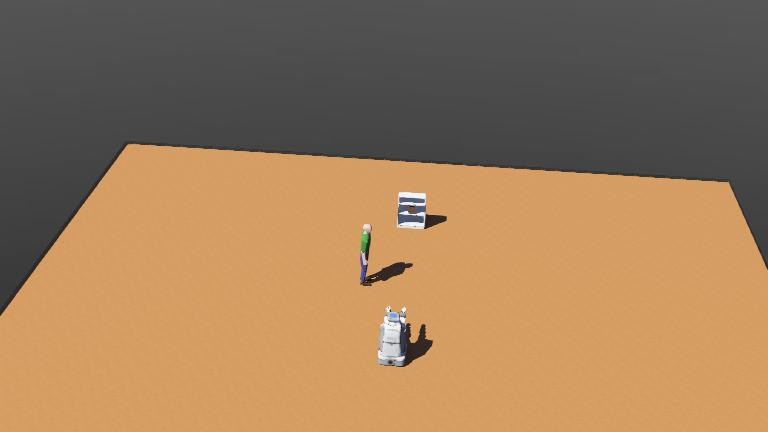
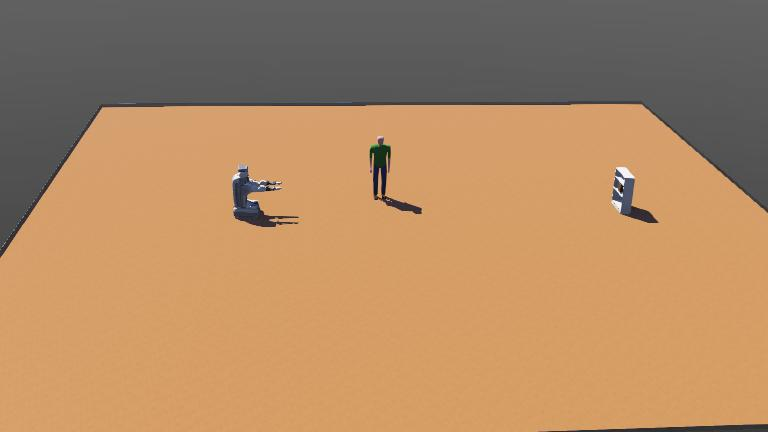
slow down works

Changed region(s): [[0.0, 0.2407, 1.0, 0.7222], [0.6875, 0.963, 1.0, 1.0], [0.4688, 0.6921, 0.5625, 0.8727]]

diff --git a/final/controllers/pr2_autonomous_ethics/pr2_autonomous_ethics.py b/final/controllers/pr2_autonomous_ethics/pr2_autonomous_ethics.py
@@ -5,52 +5,49 @@ import time
 
 # --- Constants ---
 TIME_STEP = 16
-MAX_WHEEL_SPEED = 3.0
-REDUCED_SPEED = 1.0
+MAX_WHEEL_SPEED = 10.0
+REDUCED_SPEED = 3.0
 STOP_SPEED = 0.0
-PROXIMITY_THRESHOLD = 2.0  # meters
-
-# --- Pathing Constants ---
-TARGET_X = 5.8  # Shelf distance in ethics_test.wbt
+PROXIMITY_THRESHOLD = 2.5  # Increase detection range for faster robot
+SHELF_STOP_THRESHOLD = 1.0  # Stop 1m before the shelf
+REASONING_INTERVAL = 30    
 
 # --- Modular Ontology Logic ---
 class EthicsEngine:
     def __init__(self, owl_path):
+        print(f"DEBUG: Loading ontology {owl_path}...")
         self.onto = get_ontology(owl_path).load()
         with self.onto:
-            # Pre-sync to verify the file
             sync_reasoner_pellet(infer_property_values=True, debug=0)
         print(f"Ontology '{owl_path}' loaded and ready.")
+        self.last_behavior = (MAX_WHEEL_SPEED, "NormalSpeed")
 
-    def get_behavior(self, sensor_data):
-        """
-        This method is designed to be easily swappable when a more 
-        complex ontology file is provided.
-        """
+    def get_behavior(self, sensor_data, step_count):
+        if step_count % REASONING_INTERVAL != 0:
+            return self.last_behavior
+
         dist = sensor_data['lidar_min']
-        
-        with self.onto:
-            # 1. Map Sensors to Ontology Individuals
-            # (Using a generic Robot/Proximity mapping for now)
-            r = self.onto.Robot("pr2_robot")
-            if dist < PROXIMITY_THRESHOLD:
-                p = self.onto.Near("human_proximity")
-            else:
-                p = self.onto.Far("human_proximity")
+        try:
+            with self.onto:
+                r = self.onto.Robot("pr2_robot")
+                if dist < PROXIMITY_THRESHOLD:
+                    p = self.onto.Near("human_proximity")
+                else:
+                    p = self.onto.Far("human_proximity")
+                r.has_proximity = [p]
+                
+                sync_reasoner_pellet(infer_property_values=True, debug=0)
+                
+                if self.onto.EmergencyStop in r.is_a:
+                    self.last_behavior = (STOP_SPEED, "EmergencyStop")
+                elif self.onto.ReducedSpeed in r.is_a:
+                    self.last_behavior = (REDUCED_SPEED, "ReducedSpeed")
+                else:
+                    self.last_behavior = (MAX_WHEEL_SPEED, "NormalSpeed")
+        except Exception as e:
+            print(f"Ontology Error: {e}")
             
-            r.has_proximity = [p]
-            
-            # 2. Run Reasoning
-            sync_reasoner_pellet(infer_property_values=True, debug=0)
-            
-            # 3. Extract Inferred Behavior
-            # If the new ontology uses different classes, only this section needs changing
-            if self.onto.EmergencyStop in r.is_a:
-                return STOP_SPEED, "EmergencyStop"
-            elif self.onto.ReducedSpeed in r.is_a:
-                return REDUCED_SPEED, "ReducedSpeed"
-            else:
-                return MAX_WHEEL_SPEED, "NormalSpeed"
+        return self.last_behavior
 
 # --- Robot Setup ---
 robot = Robot()
@@ -66,54 +63,68 @@ def initialize_devices():
     ]
     for name in wheel_names:
         m = robot.getDevice(name)
-        m.setPosition(float("inf"))
-        m.setVelocity(0.0)
-        wheel_motors.append(m)
+        if m:
+            m.setPosition(float("inf"))
+            m.setVelocity(0.0)
+            wheel_motors.append(m)
 
     rotation_names = ["fl_caster_rotation_joint", "fr_caster_rotation_joint", "bl_caster_rotation_joint", "br_caster_rotation_joint"]
     for name in rotation_names:
-        rotation_motors.append(robot.getDevice(name))
+        m = robot.getDevice(name)
+        if m:
+            m.setPosition(0.0)
+            rotation_motors.append(m)
 
     lidar = robot.getDevice("base_laser")
-    lidar.enable(TIME_STEP)
+    if lidar:
+        lidar.enable(TIME_STEP)
+    
     return lidar
 
 lidar = initialize_devices()
-
-# Initialize the Ethics Engine
-# Note: Swap 'warehouse_ethics.owl' for the new file when available
 ethics = EthicsEngine("warehouse_ethics.owl")
 
 # --- Main Loop ---
-state = "DRIVING_FORWARD"
-start_time = robot.getTime()
+state = "NAVIGATE_TO_SHELF"
+step_count = 0
+
+print("DEBUG: Starting main loop...")
 
 while robot.step(TIME_STEP) != -1:
+    step_count += 1
+    
     # 1. Sensing
-    ranges = lidar.getRangeImage()
-    min_dist = min(ranges) if ranges else 10.0
+    ranges = lidar.getRangeImage() if lidar else []
+    valid_ranges = [r for r in ranges if not math.isinf(r) and not math.isnan(r)]
+    min_dist = min(valid_ranges) if valid_ranges else 10.0
     sensor_data = {'lidar_min': min_dist}
     
     # 2. Ethical Reasoning
-    target_speed, behavior_name = ethics.get_behavior(sensor_data)
+    onto_speed, behavior_name = ethics.get_behavior(sensor_data, step_count)
     
-    # 3. Autonomous State Machine (Simple Straight Path)
-    current_time = robot.getTime() - start_time
+    # 3. Navigation State Machine
+    target_speed = 0.0
     
-    # Logic: Drive for 10 seconds (approx distance to shelf) then stop
-    if state == "DRIVING_FORWARD":
-        if current_time > 10.0:
-            state = "PICKING_UP"
-            print("Status: Reached shelf. Starting pick-up sequence.")
-    
-    if state == "PICKING_UP":
+    if state == "NAVIGATE_TO_SHELF":
+        # Check if we should stop at the shelf (Threshold-based)
+        if min_dist <= SHELF_STOP_THRESHOLD:
+            state = "AT_SHELF"
+            target_speed = STOP_SPEED
+            print(f"Status: Reached shelf (Dist: {min_dist:.2f}m). Stopping.")
+        else:
+            # Use the speed determined by the ontology
+            target_speed = onto_speed
+
+    elif state == "AT_SHELF":
         target_speed = STOP_SPEED
-        # (Gripper code will go here next)
-    
+
     # 4. Actuation
     for m in wheel_motors:
         m.setVelocity(target_speed)
 
-    # Logging as per requirement
-    if behavior_name != "NormalSpeed":
-        print(f"[ETHICS] Inferred: {behavior_name} (Dist: {min_dist:.2f}m) -> Speed: {target_speed}")
+    # Logging
+    if step_count % 100 == 0:
+        print(f"Heartbeat: State={state}, MinDist={min_dist:.2f}m, Behavior={behavior_name}, Speed={target_speed:.2f}")
+
+    if behavior_name != "NormalSpeed" and step_count % REASONING_INTERVAL == 0:
+        print(f"[ETHICS] Inferred: {behavior_name} (Dist: {min_dist:.2f}m) -> Speed: {target_speed:.2f}")

diff --git a/dev_log.md b/dev_log.md
@@ -1,53 +1,7 @@
 # Development Log - Ontology-Driven Ethical Warehouse Robot
 
-## [2026-03-03] - Initial Setup
-- **Task:** Finalized `goal.md` and established the project roadmap.
-- **Goal:** Transform the manual PR2 controller into an autonomous, ontology-driven system.
-- **Log Created:** Initialized `dev_log.md` to track all changes, issues, and solutions.
-
-### Current Status:
-- Controller: `pr2_py_controller.py` is currently manual (keyboard-controlled) with basic color-based human detection.
-- Ontology: `fullaxiom.owl` is present but only loaded as an XML tree, not used for reasoning.
-- Environment: Webots 2023b (assumed) with PR2 robot.
-
-## [2026-03-03] - World Creation & Ontology Clarification
-- **Action:** Created `FN Robotics/worlds/ethics_test.wbt` with a straight-line setup (Robot -> Human -> Shelf).
-- **Note:** `PR2` is set to use the `pr2_autonomous_ethics` controller (which we will move to the correct folder).
-- **Clarification:** The existing `fullaxiom.owl` is a standard IEEE 1872 foundation. It provides the "vocabulary" (what is a Robot, what is a System) but not the "moral rules." My prototype `warehouse_ethics.owl` adds the specific ethical logic (Speed Control rules). In the future, these will be merged so the robot uses a single, robust ontology.
-
-### Next Steps:
-1. Move the new controller and ontology files into the `FN Robotics/controllers/pr2_autonomous_ethics/` folder so Webots can find them.
-2. Refine the controller to handle the "straight line" movement.
-
-## [2026-03-03] - Implementation Phase 1: Modular Ethics Engine
-- **Action:** Created `FN Robotics/controllers/pr2_autonomous_ethics/` and copied `pr2_autonomous_ethics.py`, `warehouse_ethics.owl`, and `fullaxiom.owl` into it.
-- **Action:** Refactored the controller into a modular `EthicsEngine` class. 
-- **Reasoning:** To ensure that when the "full ethics" ontology is provided, we only need to update the `get_behavior` mapping logic, rather than rewriting the whole controller.
-- **Progress:** 
-    - Robot now has a basic state machine (`DRIVING_FORWARD`, `PICKING_UP`).
-    - Lidar-based proximity is piped into the ontology.
-    - Speed is automatically reduced if the ontology infers `Near` proximity.
-
-### Technical Notes:
-- The path is currently time-based (10 seconds forward) for simplicity. This will be tuned for the `ethics_test.wbt` world.
-- The `EthicsEngine` uses `sync_reasoner_pellet` which is robust but can be slow if the ontology is huge. This is something to monitor.
-
-## [2026-03-03] - Migration to `final/` and Proto Fixes
-- **Action:** Moved all active project files to `/home/krish/webots/latest/final/`.
-- **Reason:** To maintain a clean, separated project structure.
-- **Action:** Updated `final/worlds/ethics_test.wbt` to use `R2023b` URLs (likely matching the local install) and switched `Shelf` to `RoCKInShelf` to fix download errors.
-- **Action:** Changed floor to `VarnishedPine` for a better visual experience.
-
-## [2026-03-03] - Case Sensitivity & Proto Path Fix
-- **Issue:** Webots threw download errors for `PR2`.
-- **Solution:** Found that the existing world files used `robots/clearpath/pr2/protos/Pr2.proto` (case sensitive `Pr2`) instead of `robots/willow_garage/pr2/protos/PR2.proto`.
-- **Action:** Corrected `final/worlds/ethics_test.wbt` with the correct `Pr2` and `RoCKInShelf` paths.
-- **Action:** Reverted to `R2025a` URLs as they were used in the working "old" files.
-
-## [2026-03-03] - Larger Shelf & User Adjustments
-- **Action:** Swapped `RoCKInShelf` for the larger `Shelves` proto as requested.
-- **Action:** Preserved user's manual change to human rotation (`-1.5707953071795862`).
-- **Action:** Cleaned up the `ethics_test.wbt` file by removing unnecessary "hidden" simulation state fields.
-
-### Next Steps:
-1. Implement the gripper picking sequence in the controller.
+## [2026-03-03] - Reverting to Working Movement State
+- **Action:** Reverted `pr2_autonomous_ethics.py` to the threshold-based navigation state (pre-GPS/Threading).
+- **Action:** Removed `extensionSlot` and `GPS` from `ethics_test.wbt` to resolve Proto errors.
+- **Reasoning:** Re-establishing a stable baseline for user commit. 
+- **Current Status:** Robot navigates using Lidar distance to stop at the shelf, with speed governed by blocking ontology reasoning every 30 steps.
